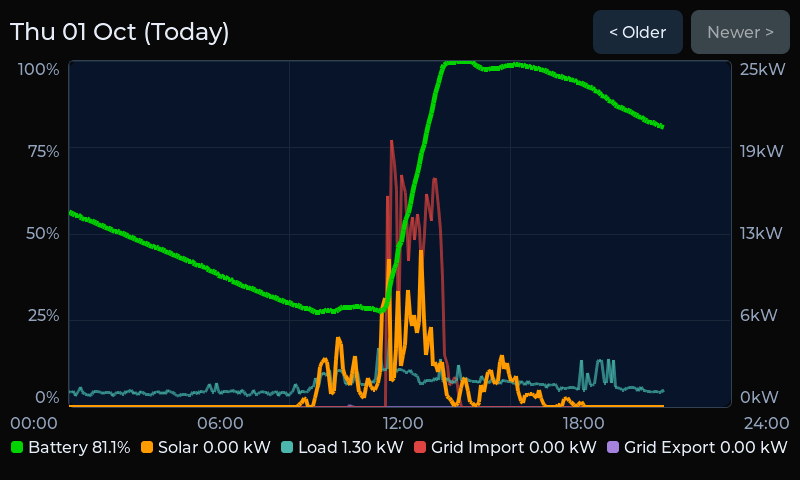
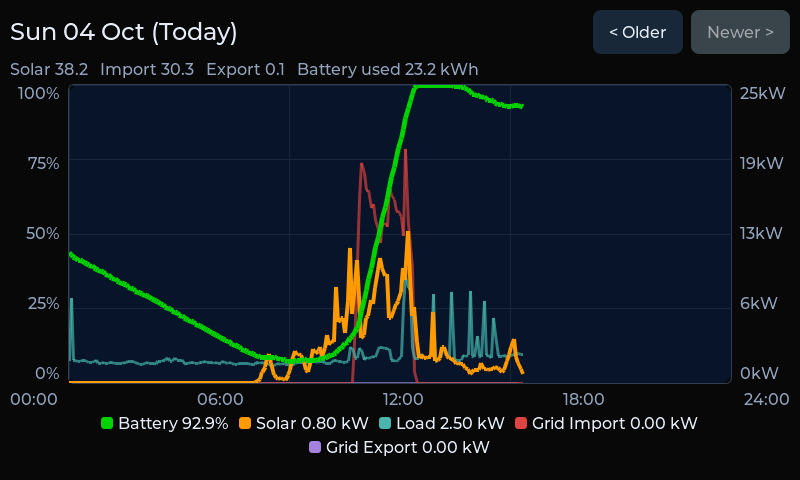
Flow lines join nearer the ring centre; scripts/capture_screens.py; refreshed screenshots and an animated tour

diff --git a/scripts/capture_screens.py b/scripts/capture_screens.py
@@ -1,0 +1,252 @@
+#!/usr/bin/env python3
+"""Capture the panel's screens as PNGs and, if you like, an animated GIF tour, over its HTTP API.
+
+  scripts/capture_screens.py 192.168.1.50                       every screen into ./screenshots/
+  scripts/capture_screens.py 192.168.1.50 -o docs/img --gif     into docs/img, plus docs/img/tour.gif
+  scripts/capture_screens.py 192.168.1.50 --skip system         leave out the Info / Settings / WiFi screens
+  scripts/capture_screens.py 192.168.1.50 --record 30           film whichever screen is showing for 30 s (GIF only)
+
+Needs: pip install requests pillow   (pillow only for GIFs)
+
+Files are named after what the panel says it is showing (POST /api/swipe answers with the view name: "dashboard", "flow",
+"graph", "monthly", "system/info", ... and "/" becomes "-"), so a new screen appears here on its own. The walk starts at the
+first screen (swipe right until nothing moves) and goes left until nothing moves.
+
+The Flow screen has three views. With the admin token (--token, or PANEL_TOKEN in the environment) the script taps the
+Today and Month buttons through the diagnostics endpoint and saves flow-now.png, flow-today.png and flow-month.png;
+without it only the live view is captured, as flow.png.
+
+Privacy: the Info, Settings and WiFi screens show serial numbers, the admin token, MAC and network names. Use --skip system
+for anything you will publish.
+
+The panel returns to the Dashboard by itself after 30 s without a touch; a full capture takes well under that.
+"""
+import argparse
+import io
+import os
+import sys
+import time
+
+try:
+    import requests
+except ImportError:
+    sys.exit("The 'requests' package is required: pip install requests")
+
+DEFAULT_PORT = 80
+DEFAULT_OUTPUT_DIR = "screenshots"
+REQUEST_TIMEOUT = 15
+DEFAULT_SETTLE_S = 3.5                    # the page dots at the bottom fade 3 s after a swipe; the Graph / Flow screens also redraw and work out data
+FLOW_SETTLE_S = {"today": 7.0, "month": 14.0}    # the Flow totals add up the stored history in the background
+DEFAULT_GIF_NAME = "tour.gif"
+DEFAULT_RECORD_GIF_NAME = "record.gif"
+DEFAULT_GIF_DELAY_MS = 3000
+GIF_COLORS = 128
+KEEPALIVE_INTERVAL_S = 10
+
+# Flow mode buttons (panel pixels): landscape 800x480 and portrait 480x800
+FLOW_BUTTONS = {
+    (800, 480): {"now": (574, 26), "today": (655, 26), "month": (738, 26)},
+    (480, 800): {"now": (288, 26), "today": (355, 26), "month": (433, 26)},
+}
+
+
+def log(msg):
+    print(msg)
+
+
+def warn(msg):
+    print("warning: " + msg, file=sys.stderr)
+
+
+def api(session, base, method, path, **kw):
+    resp = session.request(method, base + path, timeout=REQUEST_TIMEOUT, **kw)
+    resp.raise_for_status()
+    return resp
+
+
+def swipe(session, base, direction):
+    """One step left, right, or 'none' (stay, but count as a touch). Returns (view, changed)."""
+    d = api(session, base, "POST", "/api/swipe", params={"dir": direction}).json()
+    return d["view"], d["changed"]
+
+
+def current_view(session, base):
+    return api(session, base, "GET", "/api/view").json()["view"]
+
+
+def screenshot(session, base):
+    return api(session, base, "GET", "/api/screenshot").content
+
+
+def safe_name(view):
+    return "".join(c if (c.isalnum() or c in "-_. ") else "-" for c in view.replace("/", "-"))
+
+
+def save(png, out_dir, prefix, name):
+    path = os.path.join(out_dir, "%s%s.png" % (prefix, safe_name(name)))
+    with open(path, "wb") as f:
+        f.write(png)
+    log("  %-18s -> %s (%s bytes)" % (name, path, format(len(png), ",")))
+    return path
+
+
+def png_size(png):
+    return int.from_bytes(png[16:20], "big"), int.from_bytes(png[20:24], "big")
+
+
+def skipped(view, skip):
+    return any(view.startswith(s) or view.split("/")[0] == s for s in skip)
+
+
+def flow_modes(session, base, token, png0, out_dir, prefix, settle_s):
+    """Tap Today and Month on the Flow screen and capture them; returns [(name, png)], then taps Now again."""
+    buttons = FLOW_BUTTONS.get(png_size(png0))
+    if not buttons:
+        warn("unknown screen size %s: only the live Flow view is captured" % (png_size(png0),))
+        return []
+    headers = {"X-OTA-Token": token}
+
+    def tap(mode):
+        x, y = buttons[mode]
+        api(session, base, "POST", "/api/bench/tap", params={"x": x, "y": y}, headers=headers)
+    out = []
+    for mode in ("today", "month"):
+        tap(mode)
+        time.sleep(FLOW_SETTLE_S[mode])
+        png = screenshot(session, base)
+        save(png, out_dir, prefix, "flow-" + mode)
+        out.append(("flow-" + mode, png))
+    tap("now")
+    time.sleep(settle_s)
+    return out
+
+
+def capture_all(host, port, out_dir, prefix, go_home, settle_s, token, skip):
+    base = "http://%s:%d" % (host, port)
+    os.makedirs(out_dir, exist_ok=True)
+    session = requests.Session()
+    if go_home:
+        for _ in range(20):                          # swipe right until nothing moves: the first screen
+            view, changed = swipe(session, base, "right")
+            if not changed:
+                break
+        else:
+            warn("never reached the first screen; capturing from here")
+    else:
+        view = current_view(session, base)
+    frames, written, seen = [], [], set()
+    for _ in range(21):
+        if view in seen:
+            warn("%s came round again: the UI moved mid-walk, stopping here" % view)
+            break
+        seen.add(view)
+        time.sleep(settle_s)
+        if not skipped(view, skip):
+            png = screenshot(session, base)
+            if view == "flow" and token:
+                written.append(save(png, out_dir, prefix, "flow-now"))
+                frames.append(("flow-now", png))
+                for name, extra in flow_modes(session, base, token, png, out_dir, prefix, settle_s):
+                    written.append(os.path.join(out_dir, "%s%s.png" % (prefix, name)))
+                    frames.append((name, extra))
+            else:
+                written.append(save(png, out_dir, prefix, view))
+                frames.append((view, png))
+        view, changed = swipe(session, base, "left")
+        if not changed:
+            break
+    return written, frames
+
+
+def record(host, port, seconds, settle_s):
+    """Re-capture the screen that is showing for `seconds`; each frame carries the time it really took, so playback is true."""
+    base = "http://%s:%d" % (host, port)
+    session = requests.Session()
+    log("  recording %s for %gs ..." % (current_view(session, base), seconds))
+    frames, deadline = [], time.monotonic() + seconds
+    prev, next_keepalive = time.monotonic(), time.monotonic()
+    while time.monotonic() < deadline:
+        if time.monotonic() >= next_keepalive:
+            swipe(session, base, "none")
+            next_keepalive = time.monotonic() + KEEPALIVE_INTERVAL_S
+        png = screenshot(session, base)
+        now = time.monotonic()
+        if frames:
+            frames[-1] = (frames[-1][0], (now - prev) * 1000)
+        frames.append((png, None))
+        prev = now
+        if settle_s:
+            time.sleep(settle_s)
+    if frames:
+        known = [d for _, d in frames[:-1] if d]
+        frames[-1] = (frames[-1][0], sum(known) / len(known) if known else None)
+    return frames
+
+
+def write_gif(frames, path, delay_ms, scale):
+    """frames: [(png_bytes, duration_ms or None)]. One frame per screen, `delay_ms` each unless a duration is given."""
+    try:
+        from PIL import Image, ImageFile
+    except ImportError:
+        sys.exit("GIF output needs pillow: pip install pillow")
+    ImageFile.LOAD_TRUNCATED_IMAGES = True          # the panel's PNG encoder ends its zlib stream in a way Pillow calls truncated
+    if not frames:
+        warn("nothing captured, no GIF written")
+        return None
+    images, durations = [], []
+    for png, ms in frames:
+        img = Image.open(io.BytesIO(png)).convert("RGB")
+        if scale != 1.0:
+            img = img.resize((max(1, round(img.width * scale)), max(1, round(img.height * scale))), Image.LANCZOS)
+        images.append(img.convert("P", palette=Image.ADAPTIVE, colors=GIF_COLORS))
+        durations.append(int(ms or delay_ms))
+    images[0].save(path, save_all=True, append_images=images[1:], duration=durations, loop=0, optimize=True, disposal=2)
+    log("  GIF: %d frame(s), %dx%d -> %s (%s bytes)" % (len(images), images[0].width, images[0].height, path,
+                                                         format(os.path.getsize(path), ",")))
+    return path
+
+
+def main():
+    ap = argparse.ArgumentParser(description=__doc__, formatter_class=argparse.RawDescriptionHelpFormatter)
+    ap.add_argument("host", help="panel IP address or name")
+    ap.add_argument("--port", type=int, default=DEFAULT_PORT)
+    ap.add_argument("-o", "--output-dir", default=DEFAULT_OUTPUT_DIR, help="where to write the PNGs (default: screenshots/)")
+    ap.add_argument("--prefix", default="", help="prepended to every file name")
+    ap.add_argument("--no-home", action="store_true", help="start from the screen showing now instead of the first one")
+    ap.add_argument("--settle", type=float, default=DEFAULT_SETTLE_S, metavar="SECONDS", help="pause after each swipe")
+    ap.add_argument("--token", default=os.environ.get("PANEL_TOKEN"), help="admin token (default: $PANEL_TOKEN); enables the Flow Today/Month captures")
+    ap.add_argument("--skip", default="", metavar="NAMES", help="comma-separated screens to leave out, e.g. system")
+    ap.add_argument("--gif", nargs="?", const=True, default=False, metavar="FILE", help="also write a GIF tour (default: <output-dir>/tour.gif)")
+    ap.add_argument("--record", type=float, metavar="SECONDS", help="film the screen that is showing, write only a GIF")
+    ap.add_argument("--gif-delay", type=int, default=DEFAULT_GIF_DELAY_MS, metavar="MS", help="how long each screen is held in the tour")
+    ap.add_argument("--gif-scale", type=float, default=1.0, metavar="FACTOR", help="scale frames, e.g. 0.75")
+    a = ap.parse_args()
+    skip = [s.strip() for s in a.skip.split(",") if s.strip()]
+    log("Capturing from http://%s:%d ..." % (a.host, a.port))
+    try:
+        if a.record is not None:
+            path = a.gif if isinstance(a.gif, str) else os.path.join(a.output_dir, a.prefix + DEFAULT_RECORD_GIF_NAME)
+            os.makedirs(os.path.dirname(path) or ".", exist_ok=True)
+            return 0 if write_gif(record(a.host, a.port, a.record, a.settle), path, a.gif_delay, a.gif_scale) else 1
+        written, frames = capture_all(a.host, a.port, a.output_dir, a.prefix, not a.no_home, a.settle, a.token, skip)
+        if a.gif:
+            path = a.gif if isinstance(a.gif, str) else os.path.join(a.output_dir, a.prefix + DEFAULT_GIF_NAME)
+            if not write_gif([(png, None) for _n, png in frames], path, a.gif_delay, a.gif_scale):
+                return 1
+    except requests.exceptions.HTTPError as e:
+        detail = ""
+        try:
+            detail = ": " + e.response.json().get("error", "")
+        except ValueError:
+            pass
+        print("error: %s %s returned %s%s" % (e.response.request.method, e.response.request.url, e.response.status_code, detail), file=sys.stderr)
+        return 1
+    except requests.exceptions.RequestException as e:
+        print("error: could not reach %s:%d -- %s" % (a.host, a.port, e), file=sys.stderr)
+        return 1
+    log("Captured %d screen(s) into %s/" % (len(written), a.output_dir))
+    return 0
+
+
+if __name__ == "__main__":
+    sys.exit(main())

diff --git a/py/ui/flow_page.py b/py/ui/flow_page.py
@@ -269,7 +269,7 @@ class FlowPage:
         sy, by_ = top + R + 2, H - R - 34
         gy = (sy + by_) // 2
         gx, hx = R + (10 if self.portrait else 14), W - R - (10 if self.portrait else 14)
-        dx = int(R * 0.72)
+        dx = int(R * 0.5)
         ytop, ybot = gy - 20, gy + 20
         rdy = int(math.sqrt(R * R - dx * dx))
         r = int(min(72, ytop - (sy + rdy) - 14, cx - dx - (gx + R) - 26))

diff --git a/README.md b/README.md
@@ -9,9 +9,15 @@ This is the MicroPython sibling of [sigen-dashboard](https://github.com/mplinuxg
 features and HTTP API; the Python version keeps its code, heap and frame buffers in PSRAM, which leaves ~75 KB of internal SRAM
 free (the C build ran down to a few KB).
 
-| Dashboard | Graph | Monthly |
+![A tour of the screens](docs/img/tour.gif)
+
+| Dashboard | Flow (live) | Flow (today) |
 |---|---|---|
-| ![Dashboard](docs/img/dashboard.png) | ![Graph](docs/img/graph.png) | ![Monthly](docs/img/monthly.png) |
+| ![Dashboard](docs/img/dashboard.png) | ![Flow, live](docs/img/flow-now.png) | ![Flow, today](docs/img/flow-today.png) |
+
+| Flow (billing period) | Graph | Monthly |
+|---|---|---|
+| ![Flow, month](docs/img/flow-month.png) | ![Graph](docs/img/graph.png) | ![Monthly](docs/img/monthly.png) |
 
 > Unofficial. Not affiliated with or endorsed by Sigenergy or Waveshare. See [THIRD_PARTY.md](THIRD_PARTY.md).
 
@@ -94,7 +100,7 @@ setup.sh, versions.env   fetch pinned upstream sources, apply patches/
 build.sh, flash.sh       build and first-flash the firmware
 make_factory.sh          assemble the release files (factory/OTA/app) in dist/
 backup.sh, restore.sh    back up / restore settings, app and history over USB
-scripts/                 ota.sh (push the app over WiFi), deploy.sh (over USB), shot.sh (screenshot), bench.sh, helpers
+scripts/                 ota.sh (push the app over WiFi), deploy.sh (over USB), shot.sh (one screenshot), capture_screens.py (every screen + GIF tour), bench.sh, helpers
 board_s3_7/              board definition: sdkconfig, partitions (dual OTA + history + littlefs), lv_conf.h
 usermod/rgb_lcd/         C module: RGB panel, PSRAM frame buffers, vsync, blit/rotate/slide helpers
 fonts/                   LVGL fonts (icons + digit subsets) compiled into the firmware

diff --git a/CONTRIBUTING.md b/CONTRIBUTING.md
@@ -4,7 +4,7 @@ Issues and pull requests are welcome.
 
 * Host tests (no hardware): `cd py && python3 -m unittest discover tests`; `python3 -m pyflakes py` should stay clean
   (apart from the Viper `ptr8/ptr16/ptr32` annotations). CI runs both.
-* UI and rendering changes need a real board: check them with `./scripts/shot.sh`, and `./scripts/bench.sh` for redraw timing. Please say
+* UI and rendering changes need a real board: check them with `./scripts/shot.sh` (one screen) or `./scripts/capture_screens.py` (all of them, and a GIF), and `./scripts/bench.sh` for redraw timing. Please say
   which board and orientation you tested.
 * Keep the loop responsive: nothing in a handler should block for more than a few ms (the UI loop logs stalls over 300 ms at
   `/api/logs`). Yield with `await asyncio.sleep_ms(0)` in long loops.

diff --git a/CHANGELOG.md b/CHANGELOG.md
@@ -1,6 +1,7 @@
 # Changelog
 
 ## Unreleased
+* `scripts/capture_screens.py`: capture every screen (and the three Flow views) as PNGs plus an animated GIF tour; the README screenshots and tour are made with it.
 * New **Flow** screen right after the Dashboard: solar, grid, battery and home as four rings joined by the flows between them. *Now* shows live power with dots moving along the active flows, *Today* the energy since midnight, *Month* the energy over the billing period. Works in landscape and portrait.
 * Python updates are now swapped in with renames instead of copies, so an update never needs more than about twice the app's size in free storage (it ran out of space before); an update that cannot fit is refused up front with a clear message. Info shows the free storage.
 
